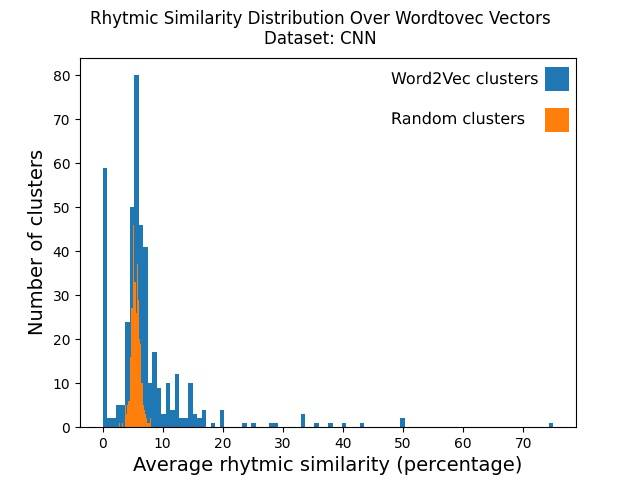
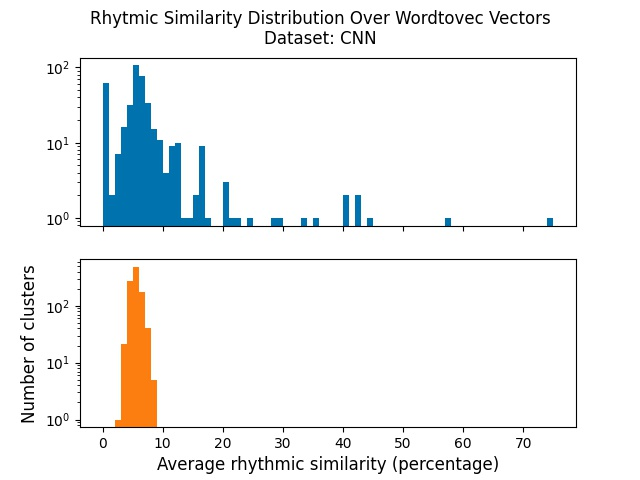
Random histograms are now separated

diff --git a/hierarchical_clustering.py b/hierarchical_clustering.py
@@ -1,13 +1,14 @@
 from utils import *
 from rhyme_metric import *
 
+
 class HierarchicalClustering:
-    
+
     def __init__(self, dataset_name) -> None:
-		self.dataset_name = dataset_name
-		self.input_path = 'input/' + dataset_name
-		self.output_path = 'output/' + dataset_name
-		self.reports_path = self.output_path + '/reports'
+        self.dataset_name = dataset_name
+        self.input_path = 'input/' + dataset_name
+        self.output_path = 'output/' + dataset_name
+        self.reports_path = self.output_path + '/reports'
 
     def cluster_level_nodes():
         content = read_file(self.input_path + '/vocab.txt')
@@ -18,7 +19,6 @@ class HierarchicalClustering:
 
         clusters = merge_nearest_words(words)
         json_write(clusters, 'hierarchical_clusters0.json')
-
 
     def hierarchical_level(i):
         clusters_simple = json_read('hierarchical_clusters' + str(i) + '.json')
@@ -41,14 +41,13 @@ class HierarchicalClustering:
             else:
                 pattern_set[pattern] = [cluster['words']]
 
-        rep_patterns = [(p, pattern_set[p]) for p in pattern_set if len(pattern_set[p])>1]
+        rep_patterns = [(p, pattern_set[p]) for p in pattern_set if len(pattern_set[p]) > 1]
         upper_level_clusters = merge_nearest_words([c['pattern'] for c in clusters])
 
-        json_write(upper_level_clusters, 'hierarchical_clusters' + str(i+1) + '.json')
-
+        json_write(upper_level_clusters, 'hierarchical_clusters' + str(i + 1) + '.json')
 
     def merge_nearest_words(words):
-        #clusters_file = open('hierarchical_clusters0.txt', 'a+')
+        # clusters_file = open('hierarchical_clusters0.txt', 'a+')
 
         clusters = []
         remained_words = words.copy()
@@ -80,11 +79,10 @@ class HierarchicalClustering:
                 # clusters_file.flush()
             # print(cluster)
 
-        #clusters_file.close()
-        #json_write(remained_words, 'no_similars.json')
+        # clusters_file.close()
+        # json_write(remained_words, 'no_similars.json')
         return clusters
 
 
-#cluster_level_nodes()
+# cluster_level_nodes()
 hierarchical_level(0)
-

diff --git a/utils.py b/utils.py
@@ -19,6 +19,7 @@ class autovivify_list(dict):
                         return -1 * x
                 raise ValueError
 
+
 def build_word_vector_matrix(vector_file, n_words):
 	'''Read a GloVe array from sys.argv[1] and return its vectors and labels as arrays'''
 	np_arrays = []
@@ -33,30 +34,56 @@ def build_word_vector_matrix(vector_file, n_words):
 				return np.array(np_arrays), labels_array
 		return np.array(np_arrays), labels_array
 
+
 def get_cache_filename_from_args(args):
         a = (args.vector_dim, args.num_words, args.num_clusters)
         return '{}D_{}-words_{}-clusters.json'.format(*a)
+
 
 def get_label_dictionaries(labels_array):
         id_to_word = dict(zip(range(len(labels_array)), labels_array))
         word_to_id = dict((v,k) for k,v in id_to_word.items())
         return word_to_id, id_to_word
 
+
 def save_json(filename, results):
         with open(filename, 'w') as f:
                 json.dump(results, f, ensure_ascii=False)
 
+
 def load_json(filename):
         with open(filename, 'r') as f:
                 return json.load(f)
+
 
 def read_file(path):
     file = open(path, "r")
     content = file.read()
     return content
 
+
 def write_file(path, content):
     file = open(path, "w")
     content = file.write(content)
     file.close()
     return content
+
+
+def print_vocab_stats():
+    import os
+    datasets = [item for item in os.listdir('input') if os.path.isdir('input/' + item)]
+    for dataset_name in datasets:
+        file_path = f'input/{dataset_name}/vocab.txt'
+        content = read_file(file_path)
+        lines = content.split("\n")
+        line_words = [line.split() for line in lines]
+        counts = [int(words[1]) for words in line_words if len(words)>0]
+        lengths = [len(words[0]) for words in line_words if len(words)>0]
+        total_words = sum(counts)
+        print(f"#words in dataset {dataset_name}: ", total_words)
+        print(f"Mean word length in dataset {dataset_name}: ", sum(lengths)/len(lengths))
+
+
+if __name__ == '__main__':
+    print_vocab_stats()
+

diff --git a/cluster_comparison.py b/cluster_comparison.py
@@ -18,20 +18,19 @@ def clusters_average_rhyme_similarity(clusters):
     similarities = []
     for c in clusters:
         if len(c) < 2:
-            #similarities.append(0)
+            # similarities.append(0)
             continue
-        similarities.append(100*cluster_rhyme_similarity(c))
+        similarities.append(100 * cluster_rhyme_similarity(c))
 
-    plt.hist(similarities, 100)
-    #plt.show()
     average = sum(similarities) / len(similarities)
-    return average, plt
+    return average, similarities
 
 
 def assess_clusters(clusters):
-    
-    avg, plot = clusters_average_rhyme_similarity(clusters)
+    avg, data = clusters_average_rhyme_similarity(clusters)
     print("Clusters avg:", avg)
+    max_similarity = max(data)
+    charts_data = [data]
 
     random_clusters = {}
     all_words = list(chain.from_iterable(clusters))
@@ -42,12 +41,20 @@ def assess_clusters(clusters):
         else:
             random_clusters[toss] = [w]
 
-    avg, plot = clusters_average_rhyme_similarity(list(random_clusters.values()))
-    plot.xlabel("Average rhytmic similarity (percentage)", fontsize=14)  
-    plot.ylabel("Number of clusters", fontsize=14)
+    avg, data = clusters_average_rhyme_similarity(list(random_clusters.values()))
+    max_similarity = int(max(max_similarity, max(data)))
+    charts_data.append(data)
+    colors = ['#0072AE', '#FD7E10']
+    bin_width = 1
+    fig, axes = plt.subplots(2, sharex=True, sharey=False)
+    for ax, data, color in zip(axes.flatten(), charts_data, colors):
+        ax.hist(data, bins=range(0, max_similarity+bin_width, bin_width), log=True, color=color)
 
+    plt.xlabel("Average rhythmic similarity (percentage)", fontsize=12)
+    plt.ylabel("Number of clusters", fontsize=12)
+    #print("Max sim: ", max_similarity)
     print("Random Clusters avg:", avg)
-    return plot
+    return plt
     #sorted_stats = {k: str(v) + " " + ", ".join(clusters[k]) for k, v in sorted(cluster_stats.items(), key=lambda item: item[1])}
     #return sorted_stats
 

diff --git a/WordToVec.py b/WordToVec.py
@@ -4,6 +4,8 @@ import nltk
 from gensim.models import Word2Vec
 from gensim.test.utils import get_tmpfile
 from loguru import logger
+
+
 class WordToVec():
     def __init__(self, dataset_name) -> None:
         input_file_path = 'input/' + dataset_name + '/raw.txt'
@@ -12,6 +14,7 @@ class WordToVec():
 
         self.input_file_path = input_file_path
         self.sentences_path = 'input/' + dataset_name + '/sentences_for_w2v.json'
+        self.dataset_name = dataset_name
         
     def generate_vectors(self, vectors_file_path):
         if not os.path.isfile(self.sentences_path):
@@ -22,7 +25,12 @@ class WordToVec():
     def __generate_sentences_file(self):
         logger.info('Reading corpus file and preprocessing')
         lines = utils.read_file(self.input_file_path).split("\n")
-        lines_tokenized = [[word.lower() for word in nltk.word_tokenize(line) if word.isalpha()] for line in lines if line]
+        if self.dataset_name == 'quran':
+            lines_tokenized = [[word.lower() for word in nltk.word_tokenize(line) if word] for line in lines if line]
+        else:
+            lines_tokenized = [[word.lower() for word in nltk.word_tokenize(line) if word.isalpha()] for line in lines
+                               if line]
+
         utils.save_json(self.sentences_path, lines_tokenized)
         logger.info('Finished. Saving sentences for later use in word2vec')
         return True
@@ -34,7 +42,7 @@ class WordToVec():
         
         print(len(sentences))
 
-        model = Word2Vec(sentences, vector_size=50, window=15, min_count=1, workers=4)
+        model = Word2Vec(sentences, vector_size=100, window=15, min_count=1, workers=4)
         #model.save("word2vec.model")
         #model = Word2Vec.load("word2vec.model")
 

diff --git a/main.py b/main.py
@@ -4,9 +4,11 @@ from pathlib import Path
 from word_clustering import VectorClustering
 from loguru import logger
 
+
 def list_datasets():
     datasets = [item for item in os.listdir('input') if os.path.isdir('input/' + item)]
     return datasets
+
 
 def check_dataset_validity(dataset_path):
     sentences_path = dataset_path + '/raw.txt'
@@ -14,6 +16,7 @@ def check_dataset_validity(dataset_path):
         print("Could not find: " + sentences_path)
         return False
     return True
+
 
 def make_output_folders(dataset_name):
     output_path = 'output/' + dataset_name  
@@ -25,7 +28,7 @@ def make_output_folders(dataset_name):
 
     Path(output_path + '/reports').mkdir(parents=True, exist_ok=True)
 
-    #make also a folder in input:
+    # make also a folder in input:
     Path('input/' + dataset_name + '/vectors').mkdir(parents=True, exist_ok=True)
 
 
@@ -40,12 +43,12 @@ default_embeddings = [
 for dataset in datasets:
     logger.info('Processing dataset: ' + dataset)
     try: 
-        #check if corpus exists:
+        # check if corpus exists:
         if not check_dataset_validity('input/' + dataset):
             print("Skipped " + dataset)
             continue
 
-        #create folders, if not properly structured:
+        # create folders, if not properly structured:
         make_output_folders(dataset)
 
         experiment = VectorClustering(dataset)
@@ -54,3 +57,4 @@ for dataset in datasets:
             experiment.calculate_inter_similarity(embedding_system)
     except Exception as e:
         logger.error(e)
+

diff --git a/Glove.py b/Glove.py
@@ -10,6 +10,7 @@ class Glove():
         if not os.path.isfile(input_file_path):
             raise Exception('Could not find ' + input_file_path)
 
+        self.dataset_name = dataset_name
         self.input_file_path = input_file_path
         self.dataset_path = 'input/' + dataset_name 
         self.corpus_file_path = self.dataset_path + '/corpus_for_glove.txt'
@@ -37,7 +38,10 @@ class Glove():
                 documents.append(document)
                 last_document_lines = []
                 continue
-            words = [word.lower() for word in nltk.word_tokenize(line) if word.isalpha()]    
+            if self.dataset_name == 'quran':
+                words = [word.lower() for word in nltk.word_tokenize(line) if word]
+            else:
+                words = [word.lower() for word in nltk.word_tokenize(line) if word.isalpha()]
             last_document_lines.append(" ".join(words))
         if len(last_document_lines):
             document = " ".join(last_document_lines)

diff --git a/old/parseQuranCSV.py b/old/parseQuranCSV.py
@@ -1,7 +1,7 @@
 
 
 
-f = open('data/Arabic-Original.csv')
+f = open('Arabic-Original.csv')
 c = f.read()[1:]
 l = c.split('\n')
 lp = [k.split('|') for k in l]
@@ -29,6 +29,18 @@ def writeForGlove():
     f.close()
     print(v[1:20])
 
+
+def writeAsRawForBoth():
+    x = []
+    for sura in dic:
+        x.append('\n'.join(dic[sura]))
+        x.append("\n")
+    f = open('../input/quran/raw.txt', '+w')
+    f.writelines('\n'.join(x))
+    f.close()
+    print(v[1:20])
+
+
 def writeForWord2Vec():
     import json
     from nltk.tokenize import word_tokenize
@@ -43,4 +55,6 @@ def writeForWord2Vec():
 
 
 if __name__ == '__main__':
-    writeForWord2Vec()
+    #writeForWord2Vec()
+    #writeForGlove()
+    writeAsRawForBoth()

diff --git a/word_clustering.py b/word_clustering.py
@@ -46,11 +46,11 @@ class VectorClustering():
 		logger.info("Loaded vectors: " + embedding_system)
 
 		logger.info("Started clustering: " + embedding_system)
-		kmeans_model = KMeans(init='k-means++', n_clusters=self.num_clusters, n_jobs=self.num_jobs, n_init=10)
+		kmeans_model = KMeans(init='k-means++', n_clusters=self.num_clusters, n_init=10)
 		kmeans_model.fit(df)
 		logger.info("Finished clustering: " + embedding_system)
 
-		cluster_labels   = kmeans_model.labels_
+		cluster_labels = kmeans_model.labels_
 		# cluster_inertia = kmeans_model.inertia_
 		cluster_to_words = list(self.find_word_clusters(labels_array, cluster_labels).values())
 

diff --git a/rhyme_metric.py b/rhyme_metric.py
@@ -1,10 +1,11 @@
 from utils import load_json
 
+
 def rhyme_similarity(word1, word2):
-    '''cache_key = word1+'@'+word2 if word1 > word2 else word2+'@'+word1
+    """cache_key = word1+'@'+word2 if word1 > word2 else word2+'@'+word1
     if cache_key in rhyme_similarity.cache:
         return rhyme_similarity.cache[cache_key]
-    '''
+    """
     len1 = len(word1)
     len2 = len(word2)
     min_len = min(len1, len2)
